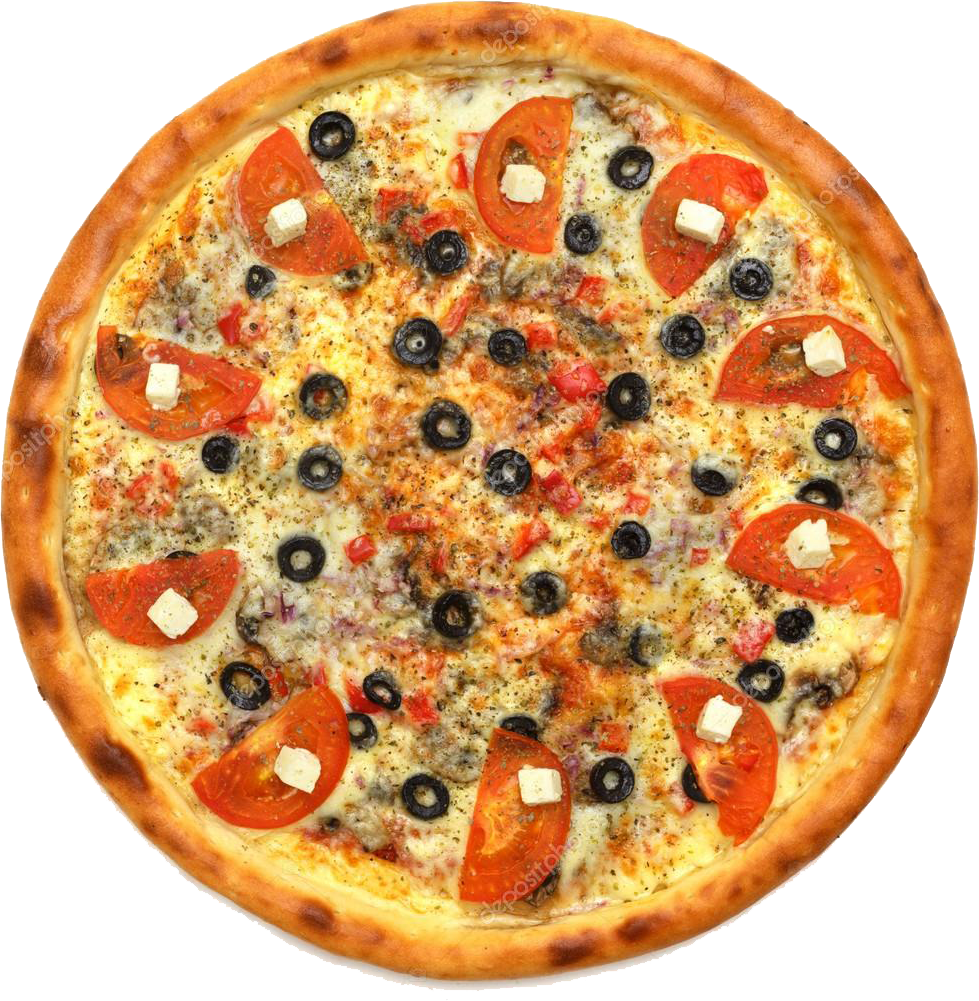
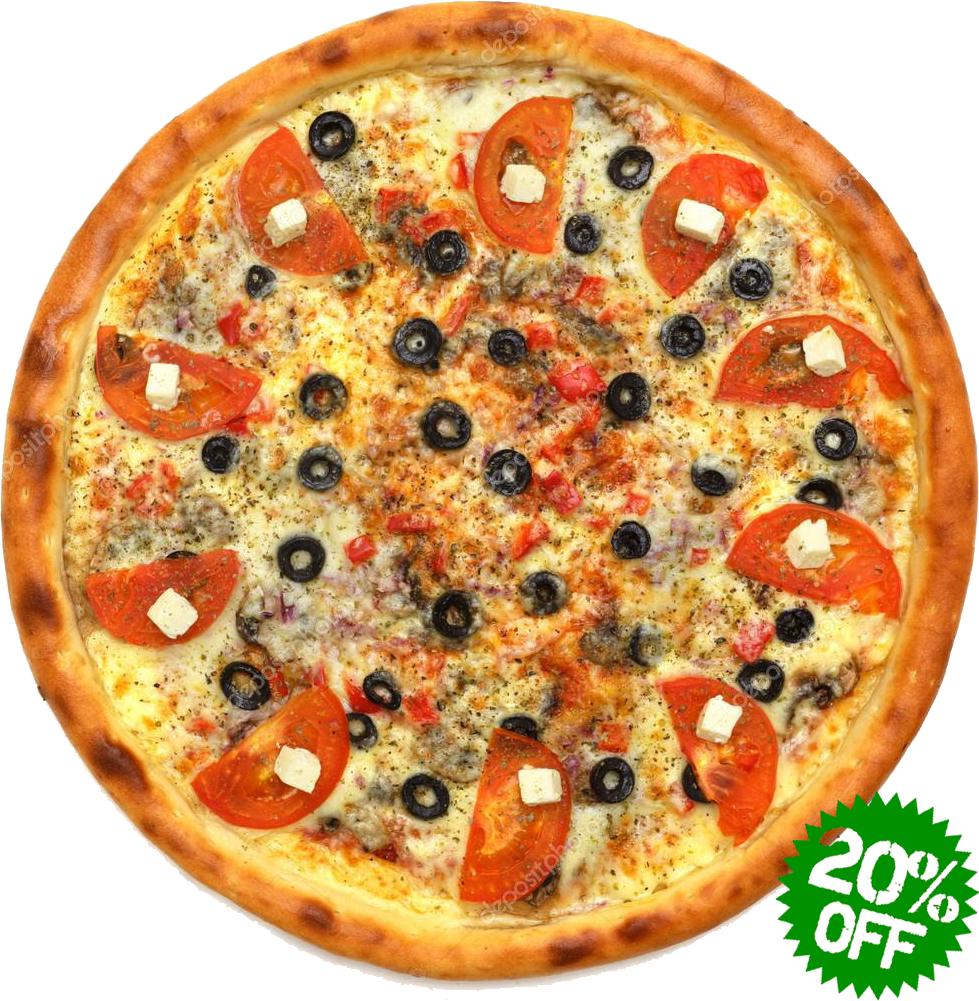
Adicionado promoção
Adicionado o valor da promoção do primeiro item

Changed region(s): [[0.7967, 0.7742, 1.0, 1.0]]

diff --git a/assets/js/pizzas.js b/assets/js/pizzas.js
@@ -1,11 +1,11 @@
 let pizzaJson = [
-    {id:1, name:'Moda da Casa', img:'assets/images/pizza.png', price:23.92, sizes:['320g', '530g', '860g'], description:'Molho de tomate, mussarela, frango, tomate, palmito e azeitonas pretas'},
-    {id:2, name:'Marguerita', img:'assets/images/pizza2.png', price:23.92, sizes:['320g', '530g', '860g'], description:'Molho de tomate, mussarela, manjericão e tomate'},
-    {id:3, name:'Gaúcha', img:'assets/images/pizza3.png', price:29.90, sizes:['320g', '530g', '860g'], description:'Molho de tomate, mussarela, filé mignon, pimentões e azeitonas pretas'},
-    {id:4, name:'Vegetariana', img:'assets/images/pizza4.png', price:29.90, sizes:['320g', '530g', '860g'], description:'Molho de tomate, mussarela, tomate, brócolis e azeitonas pretas'},
-    {id:5, name:'Calabresa Especial', img:'assets/images/pizza5.png', price:29.90, sizes:['320g', '530g', '860g'], description:'Molho de tomate, mussarela, calabresa, tomates, catupiry, azeitonas verdes e pretas'},
-    {id:6, name:'Moda do Chef', img:'assets/images/pizza6.png', price:29.90, sizes:['320g', '530g', '860g'], description:'Molho de tomate, mussarela, frango, bacon, tomate, manjericão e azeitonas pretas'},
-    {id:7, name:'M & Ms', img:'assets/images/pizza7.png', price:29.90, sizes:['320g', '530g', '860g'], description:'Mussarela, chocolate e m&ms'},
-    {id:8, name:'Prestígio', img:'assets/images/pizza8.png', price:29.90, sizes:['320g', '530g', '860g'], description:'Mussarela, chocolate e coco ralado'},
-    {id:9, name:'Abacaxi Chocolate', img:'assets/images/pizza9.png', price:29.90, sizes:['320g', '530g', '860g'], description:'Mussarela, abacaxi e chocolate branco'}
+    {id:1, name:'Moda da Casa', img:'assets/images/pizza.png', price:41.90, sizes:['320g', '530g', '860g'], description:'Molho de tomate, mussarela, frango, tomate, palmito e azeitonas pretas'},
+    {id:2, name:'Marguerita', img:'assets/images/pizza2.png', price:44.90, sizes:['320g', '530g', '860g'], description:'Molho de tomate, mussarela, manjericão e tomate'},
+    {id:3, name:'Gaúcha', img:'assets/images/pizza3.png', price:56.90, sizes:['320g', '530g', '860g'], description:'Molho de tomate, mussarela, filé mignon, pimentões e azeitonas pretas'},
+    {id:4, name:'Vegetariana', img:'assets/images/pizza4.png', price:39.90, sizes:['320g', '530g', '860g'], description:'Molho de tomate, mussarela, tomate, brócolis e azeitonas pretas'},
+    {id:5, name:'Calabresa Especial', img:'assets/images/pizza5.png', price:42.90, sizes:['320g', '530g', '860g'], description:'Molho de tomate, mussarela, calabresa, tomates, catupiry, azeitonas verdes e pretas'},
+    {id:6, name:'Moda do Chef', img:'assets/images/pizza6.png', price:47.90, sizes:['320g', '530g', '860g'], description:'Molho de tomate, mussarela, frango, bacon, tomate, manjericão e azeitonas pretas'},
+    {id:7, name:'M & Ms', img:'assets/images/pizza7.png', price:38.90, sizes:['320g', '530g', '860g'], description:'Mussarela, chocolate e m&ms'},
+    {id:8, name:'Prestígio', img:'assets/images/pizza8.png', price:34.90, sizes:['320g', '530g', '860g'], description:'Mussarela, chocolate e coco ralado'},
+    {id:9, name:'Abacaxi Chocolate', img:'assets/images/pizza9.png', price:41.90, sizes:['320g', '530g', '860g'], description:'Mussarela, abacaxi e chocolate branco'}
 ];

diff --git a/assets/js/script.js b/assets/js/script.js
@@ -8,10 +8,19 @@ const a = (qa) => document.querySelectorAll(qa);
 // Listagem do menu (Pizzas) //
 pizzaJson.map((item, index) => {
     let pizzaItem = s('.models .pizza-item').cloneNode(true);
+    
+
 
     pizzaItem.setAttribute('date-key', index);
     pizzaItem.querySelector('.pizza-item--img img').src = item.img;
-    pizzaItem.querySelector('.pizza-item--price').innerHTML = `R$ ${item.price.toFixed(2)}`;
+    if (index == 0) {
+        let perDesconto = 0.2; 
+        let priceDesconto = pizzaItem.querySelector('.pizza-item--price').innerHTML = item.price * perDesconto;
+        let priceNovo = `R$ ${(item.price - priceDesconto).toFixed(2)}`;
+        pizzaItem.querySelector('.pizza-item--price').innerHTML =  `De R$ ${(item.price).toFixed(2)} por ` + priceNovo;
+    } else {
+        pizzaItem.querySelector('.pizza-item--price').innerHTML = `R$ ${item.price.toFixed(2)}`;
+    };
     pizzaItem.querySelector('.pizza-item--name').innerHTML = item.name;
     pizzaItem.querySelector('.pizza-item--desc').innerHTML = item.description;
     pizzaItem.querySelector('a').addEventListener('click', (e) => {
@@ -111,6 +120,7 @@ s('.menu-closer').addEventListener('click', () => {
     s('aside').style.left = '100vw';
 });
 
+
 // Funções para atualizar carrinho
 function updateCart() {
     s('.menu-openner span').innerHTML = cart.length;
@@ -158,8 +168,6 @@ function updateCart() {
                 cart[i].qt++;
                 updateCart();
             })
-
-
             s('.cart').append(cartItem);
 
         }

diff --git a/assets/css/style.css b/assets/css/style.css
@@ -4,6 +4,9 @@
     --light-green: #32a345;
     --main-yellow: #F5A100;
     --light-yellow: #ffd78c;
+    --main-red: #ff0000;
+    --dark-red: #960101;
+    --light-red: #ff6666;
 
 }
 
@@ -293,7 +296,7 @@ h1 {
 .pizzaInfo--cancelButton {
     display:inline-block;
     cursor:pointer;
-    color: #f00;
+    color: var(--main-red);
     font-weight: bold;
 }
 .pizzaInfo--cancelMobileButton {
@@ -303,7 +306,7 @@ h1 {
     line-height: 40px;
     margin-bottom:30px;
     font-size: 1.5rem;
-    color: #f00;
+    color: var(--main-red);
     font-weight: bold;
 }
 .cart {
